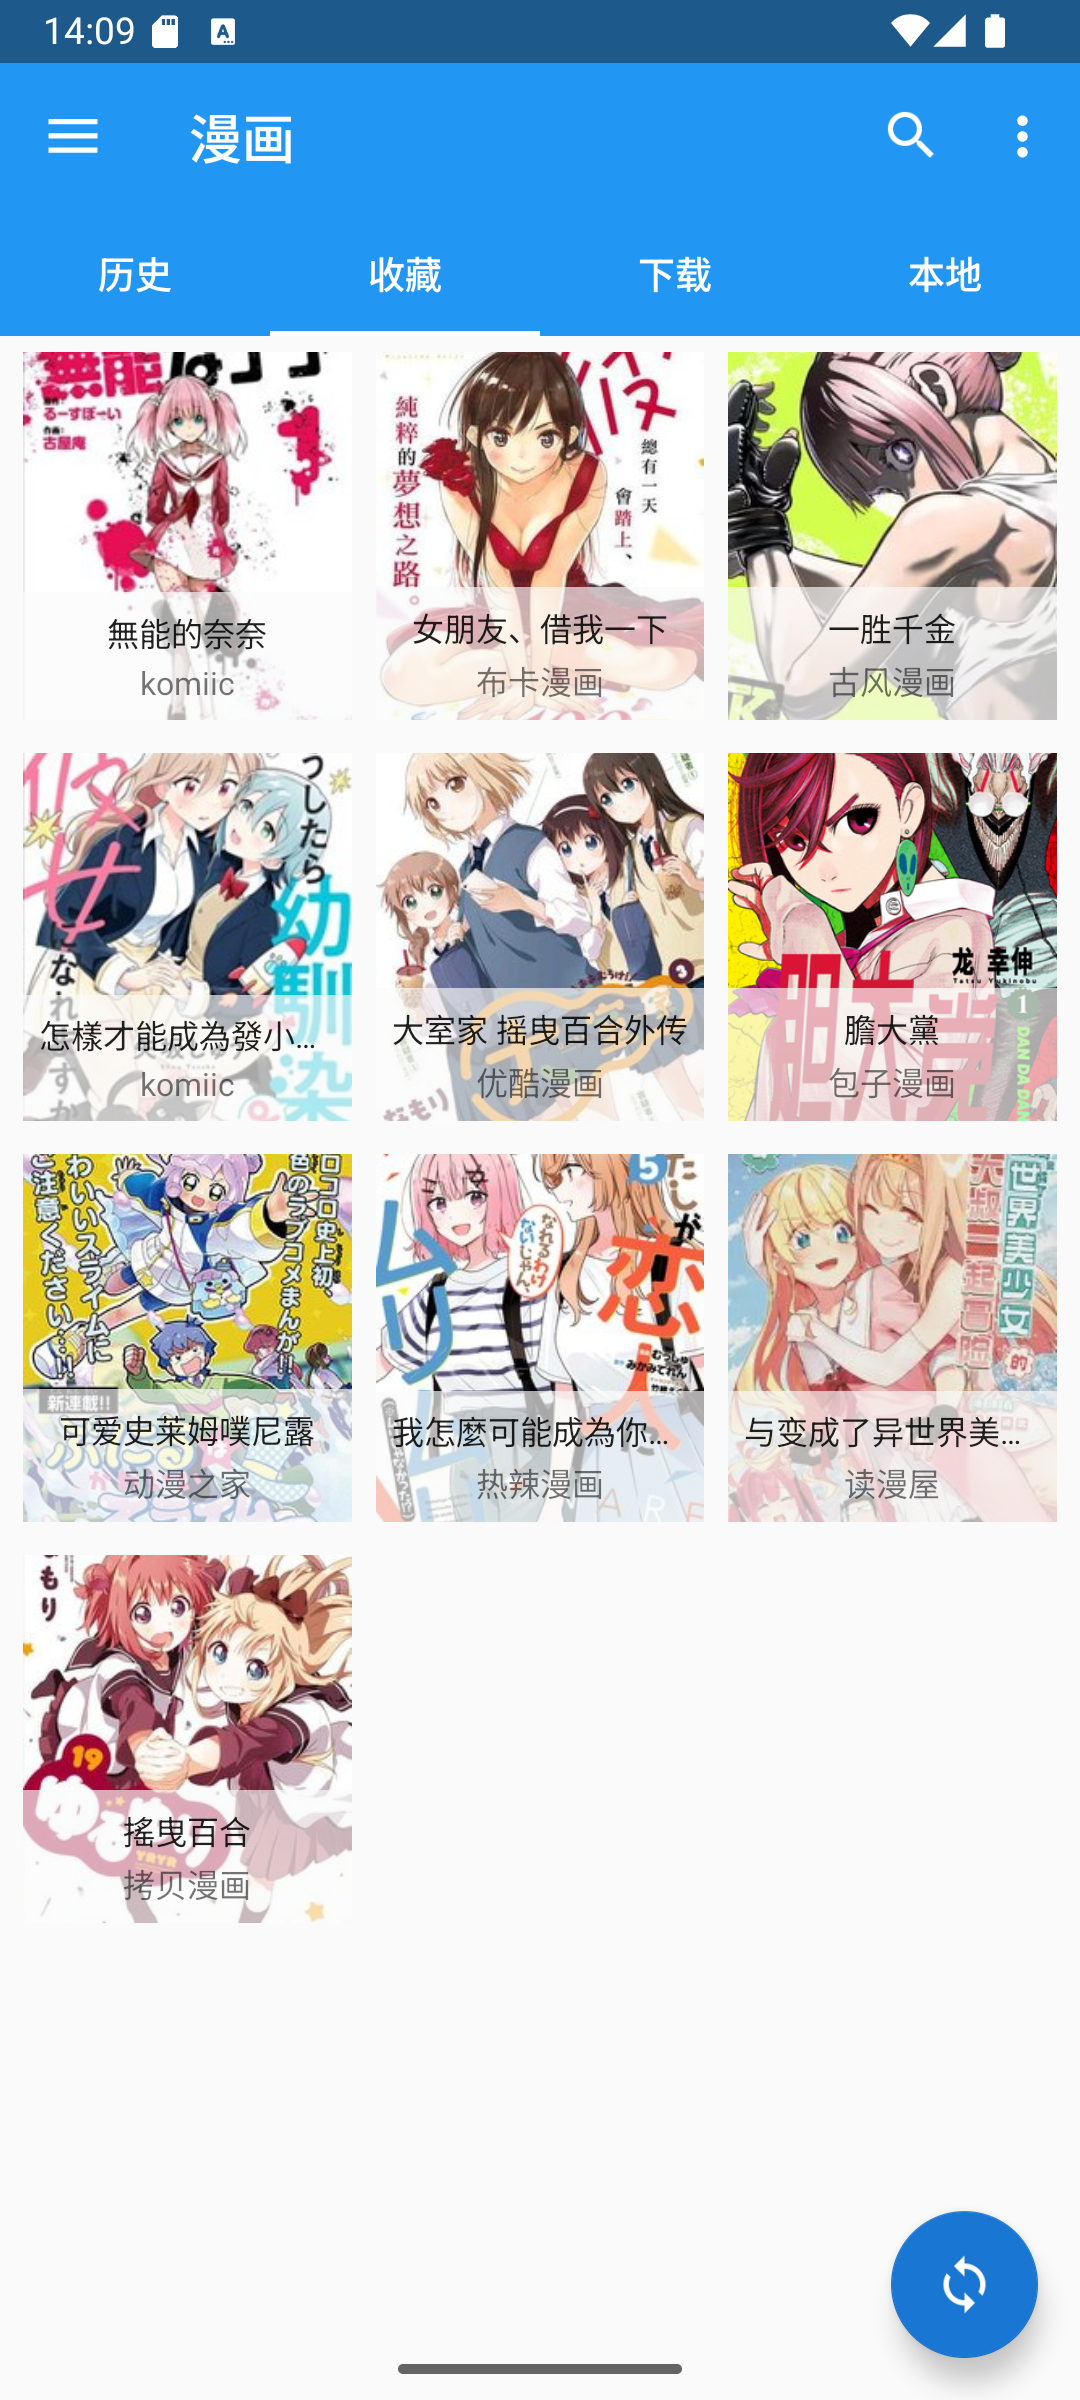
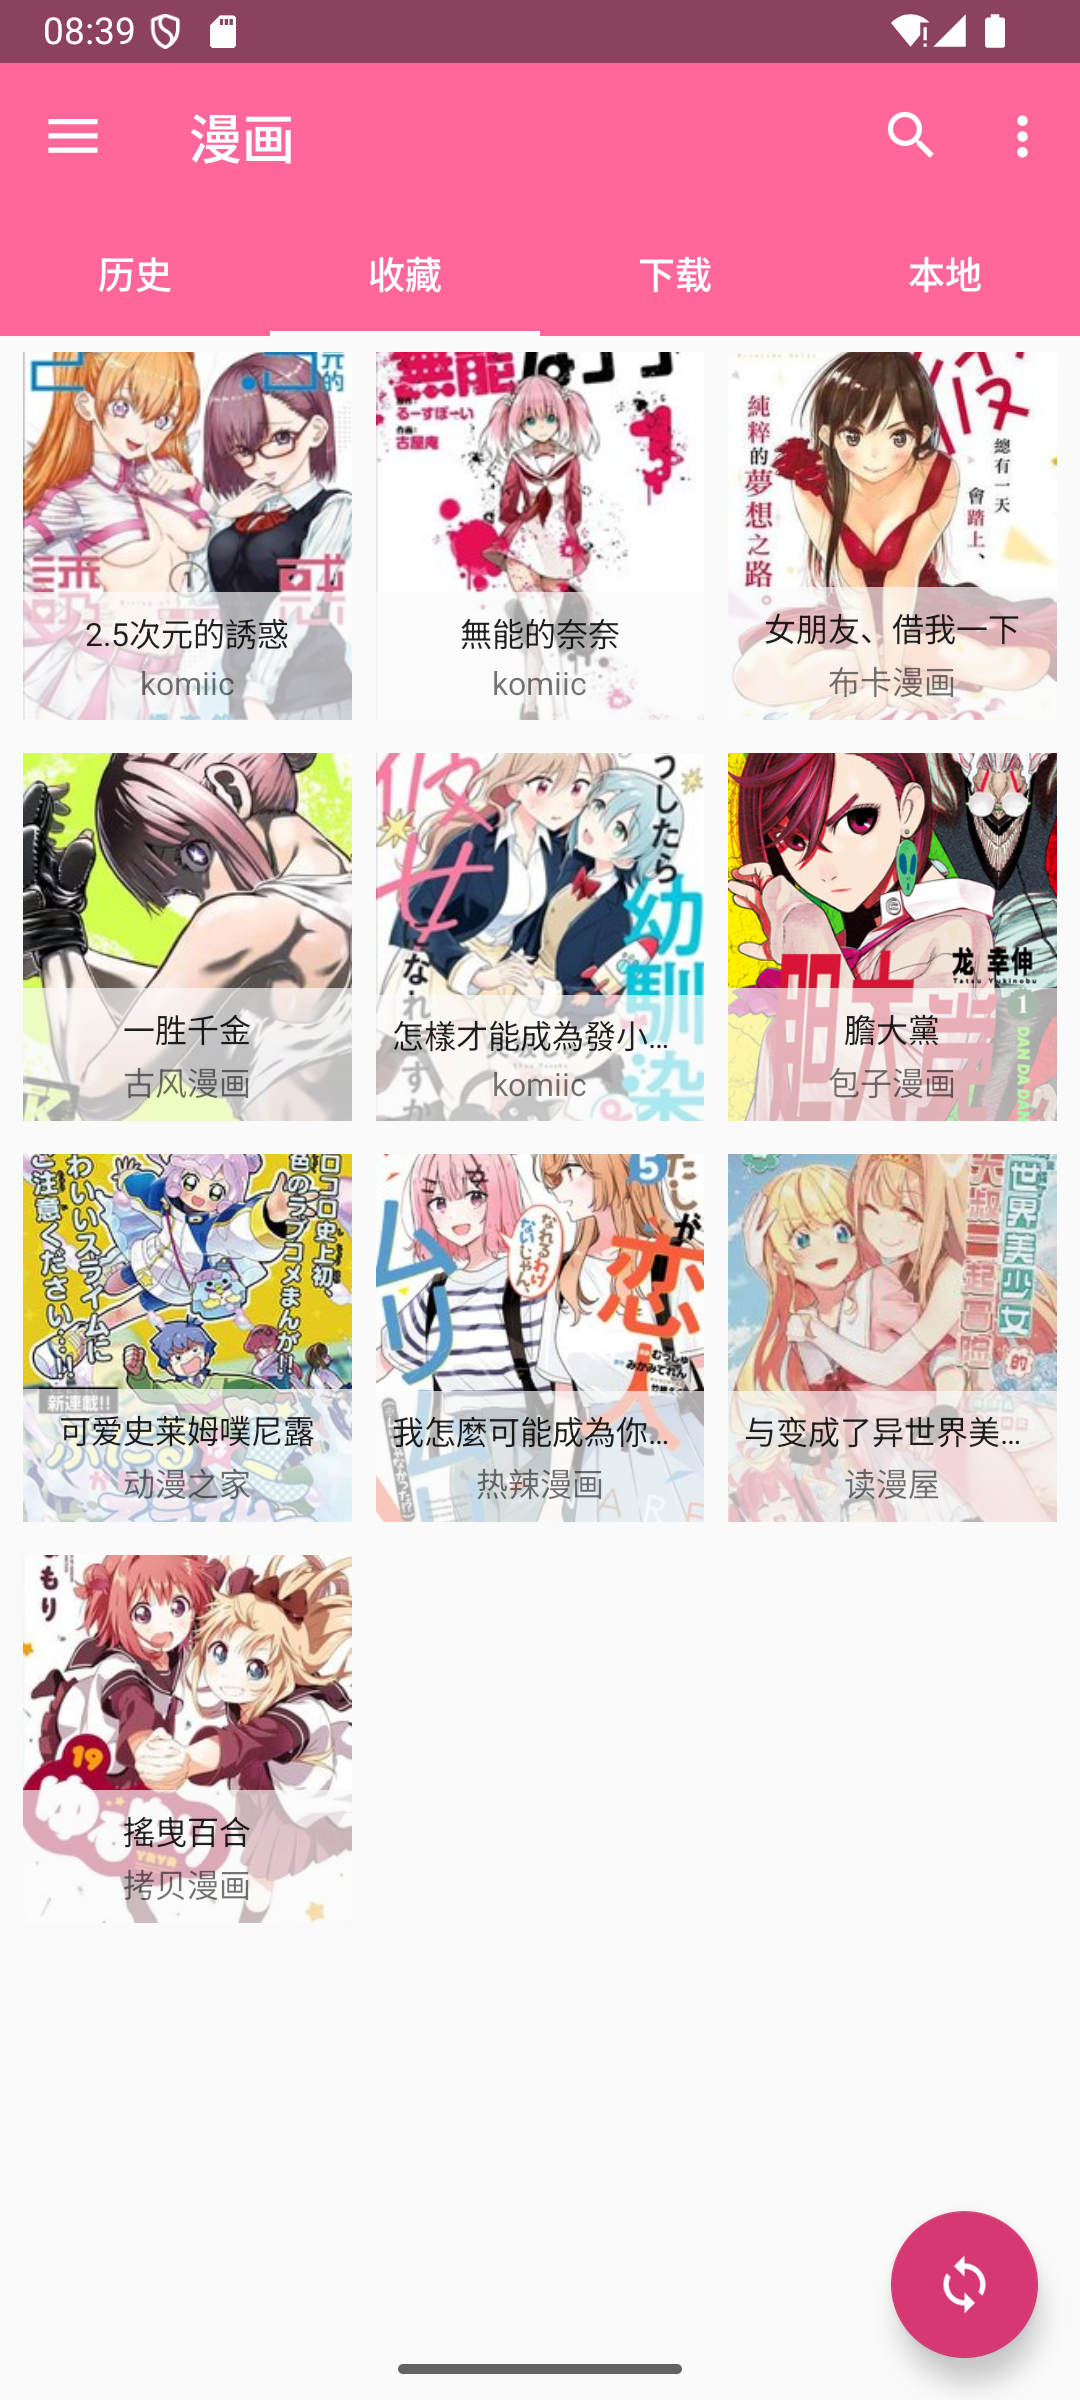
🌈 style: 更改应用名称、图标与默认主题

diff --git a/app/src/main/java/com/xyrlsz/xcimoc/utils/ThemeUtils.java b/app/src/main/java/com/xyrlsz/xcimoc/utils/ThemeUtils.java
@@ -11,11 +11,11 @@ import com.xyrlsz.xcimoc.R;
 
 public class ThemeUtils {
 
-    public static final int THEME_BLUE = 0;
+    public static final int THEME_PINK = 0;
     public static final int THEME_GREY = 1;
     public static final int THEME_TEAL = 2;
     public static final int THEME_PURPLE = 3;
-    public static final int THEME_PINK = 4;
+    public static final int THEME_BLUE = 4;
     public static final int THEME_BROWN = 5;
 
     public static int getResourceId(Context context, int attr) {
@@ -27,16 +27,16 @@ public class ThemeUtils {
     public static int getThemeById(int id) {
         switch (id) {
             default:
-            case THEME_BLUE:
-                return R.style.AppThemeBlue;
+            case THEME_PINK:
+                return R.style.AppThemePink;
             case THEME_GREY:
                 return R.style.AppThemeGrey;
             case THEME_TEAL:
                 return R.style.AppThemeTeal;
             case THEME_PURPLE:
                 return R.style.AppThemePurple;
-            case THEME_PINK:
-                return R.style.AppThemePink;
+            case THEME_BLUE:
+                return R.style.AppThemeBlue;
             case THEME_BROWN:
                 return R.style.AppThemeBrown;
         }
@@ -45,16 +45,16 @@ public class ThemeUtils {
     public static int getDialogThemeById(int id) {
         switch (id) {
             default:
-            case THEME_BLUE:
-                return R.style.DialogThemeBlue;
+            case THEME_PINK:
+                return R.style.DialogThemePink;
             case THEME_GREY:
                 return R.style.DialogThemeGrey;
             case THEME_TEAL:
                 return R.style.DialogThemeTeal;
             case THEME_PURPLE:
                 return R.style.DialogThemePurple;
-            case THEME_PINK:
-                return R.style.DialogThemePink;
+            case THEME_BLUE:
+                return R.style.DialogThemeBlue;
             case THEME_BROWN:
                 return R.style.DialogThemeBrown;
         }
@@ -63,16 +63,16 @@ public class ThemeUtils {
     public static int getThemeColorById(int id) {
         switch (id) {
             default:
-            case THEME_BLUE:
-                return R.color.colorPrimaryBlue;
+            case THEME_PINK:
+                return R.color.colorPrimaryPink;
             case THEME_GREY:
                 return R.color.colorPrimaryGrey;
             case THEME_TEAL:
                 return R.color.colorPrimaryTeal;
             case THEME_PURPLE:
                 return R.color.colorPrimaryPurple;
-            case THEME_PINK:
-                return R.color.colorPrimaryPink;
+            case THEME_BLUE:
+                return R.color.colorPrimaryBlue;
             case THEME_BROWN:
                 return R.color.colorPrimaryBrown;
         }

diff --git a/app/src/main/java/com/xyrlsz/xcimoc/utils/HintUtils.java b/app/src/main/java/com/xyrlsz/xcimoc/utils/HintUtils.java
@@ -17,7 +17,7 @@ public class HintUtils {
     public static void showSnackbar(View layout, String msg) {
         if (layout != null && layout.isShown()) {
             Snackbar snackbar = Snackbar.make(layout, msg, Snackbar.LENGTH_SHORT);
-            int theme = App.getPreferenceManager().getInt(PreferenceManager.PREF_OTHER_THEME, ThemeUtils.THEME_BLUE);
+            int theme = App.getPreferenceManager().getInt(PreferenceManager.PREF_OTHER_THEME, ThemeUtils.THEME_PINK);
             snackbar.setBackgroundTint(App.getAppContext().getResources().getColor(ThemeUtils.getThemeColorById(theme)));
             snackbar.show();
         }

diff --git a/app/src/main/java/com/xyrlsz/xcimoc/ui/activity/BaseActivity.java b/app/src/main/java/com/xyrlsz/xcimoc/ui/activity/BaseActivity.java
@@ -72,7 +72,7 @@ public abstract class BaseActivity extends AppCompatActivity implements BaseView
     }
 
     protected void initTheme() {
-        int theme = mPreference.getInt(PreferenceManager.PREF_OTHER_THEME, ThemeUtils.THEME_BLUE);
+        int theme = mPreference.getInt(PreferenceManager.PREF_OTHER_THEME, ThemeUtils.THEME_PINK);
         setTheme(ThemeUtils.getThemeById(theme));
         if (isNavTranslation() && Build.VERSION.SDK_INT >= Build.VERSION_CODES.KITKAT) {
             getWindow().addFlags(WindowManager.LayoutParams.FLAG_TRANSLUCENT_NAVIGATION);

diff --git a/README.md b/README.md
@@ -1,11 +1,9 @@
-<img src="./screenshot/icon.png">
+<img src="./screenshot/xcimoc.png" width="180">
 
 # 应用简介
 
 Android 平台在线漫画阅读器  
 Online manga reader based on Android
-
-
 
 
 # 下载
@@ -60,22 +58,6 @@ Online manga reader based on Android
 - 在 SourceManger 的 getParser() 方法中加入相应分支
 > case 里面无脑添加
 - 在 UpdateHelper 的 initSource() 方法中初始化图源，以及修改UpdateHelper()构造方法
-
-## cimoc设置
-- 阅读模式－翻页模式-卷纸模式
-- 定义点击事件－左上－上一页，右下下一页
-- 自定义长按点击事件-切换阅读模式
-- 启用快速翻页（减少）
-- 自动裁剪百边
-- 禁止双击放大
-- 启用通知栏
-## boox优化配置
-- dpi－424
-- 字体加粗－
-- a2刷新－打开
-- 动画过滤200
-- 全刷触发20
-- 全屏－关闭
 
 # 软件更新方向：
 - 能正常搜索解析网络上大部分免费的漫画
